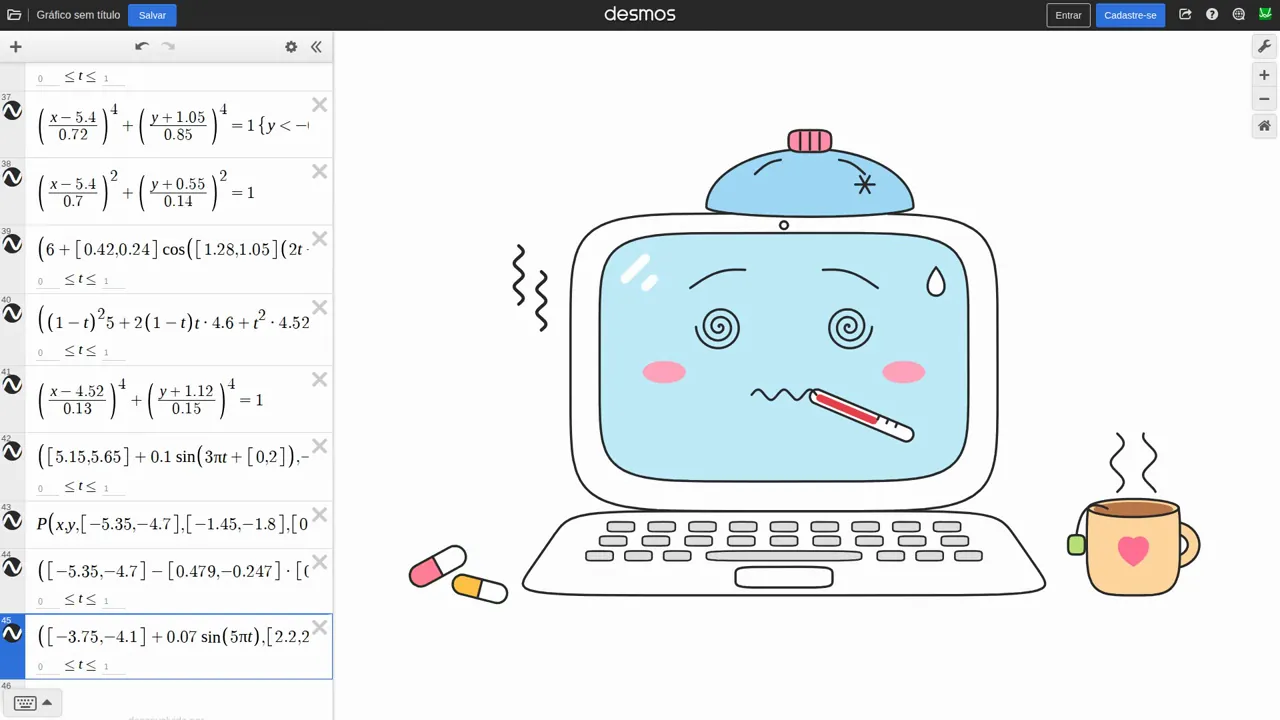
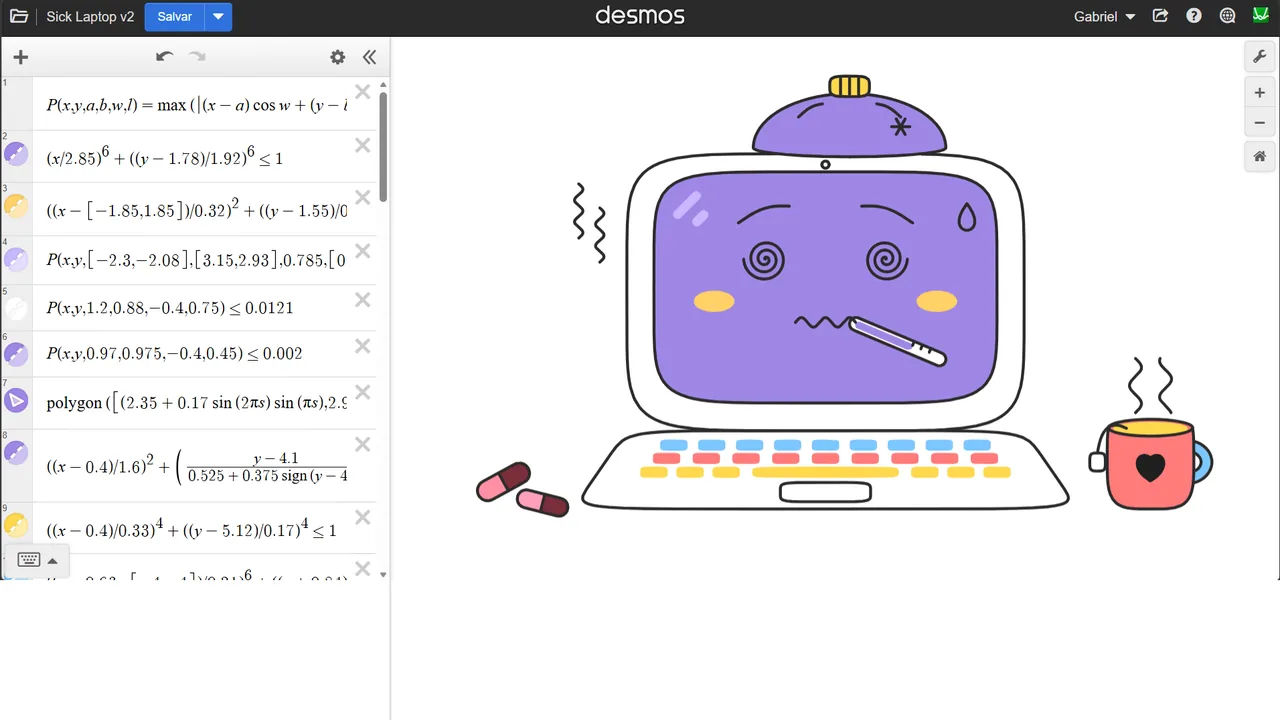
Desmos: capas novas dos vídeos e links para os gráficos
- As capas agora são as capturas enviadas (Sick Laptop v2, Chip with
  screwdriver v2, Bug with a bandage v2), completadas para 16:9 com o fundo
  branco da Desmos e a divisória do painel, sem cortar nada
- Miniaturas do card refeitas a partir das capas
- A página /work/desmos ganha os três links para os gráficos na Desmos

Claude-Session: https://claude.ai/code/session_01HKydPjNeT9ZWoKkHj3g4WT

diff --git a/src/content/projects.ts b/src/content/projects.ts
@@ -223,9 +223,14 @@ export const projects: Project[] = [
       {
         heading: 'The three in the videos',
         body: [
-          'A laptop with the flu, with a thermometer, an ice pack and a mug on the side. A processor wearing a propeller cap and holding a screwdriver. And a bug, the insect kind, with a bandage and a magnifying glass: a fixed bug. Each video shows the drawing going up one equation at a time.',
+          'A laptop with the flu, with a thermometer, an ice pack and a mug on the side. A processor wearing a propeller cap and holding a screwdriver. And a bug, the insect kind, with a bandage and a magnifying glass: a fixed bug. Each video shows the drawing going up one equation at a time, and the links below open the graphs themselves, every equation included.',
         ],
       },
+    ],
+    links: [
+      { href: 'https://www.desmos.com/calculator/axmfjf6rxv', label: 'Sick Laptop on Desmos', external: true },
+      { href: 'https://www.desmos.com/calculator/kk7wibzqq1', label: 'Chip with a screwdriver on Desmos', external: true },
+      { href: 'https://www.desmos.com/calculator/gdohbfcp0i', label: 'Bug with a bandage on Desmos', external: true },
     ],
     gallery: ['laptop-flu.mp4', 'processor.mp4', 'fixed-bug.mp4'],
     captions: {
